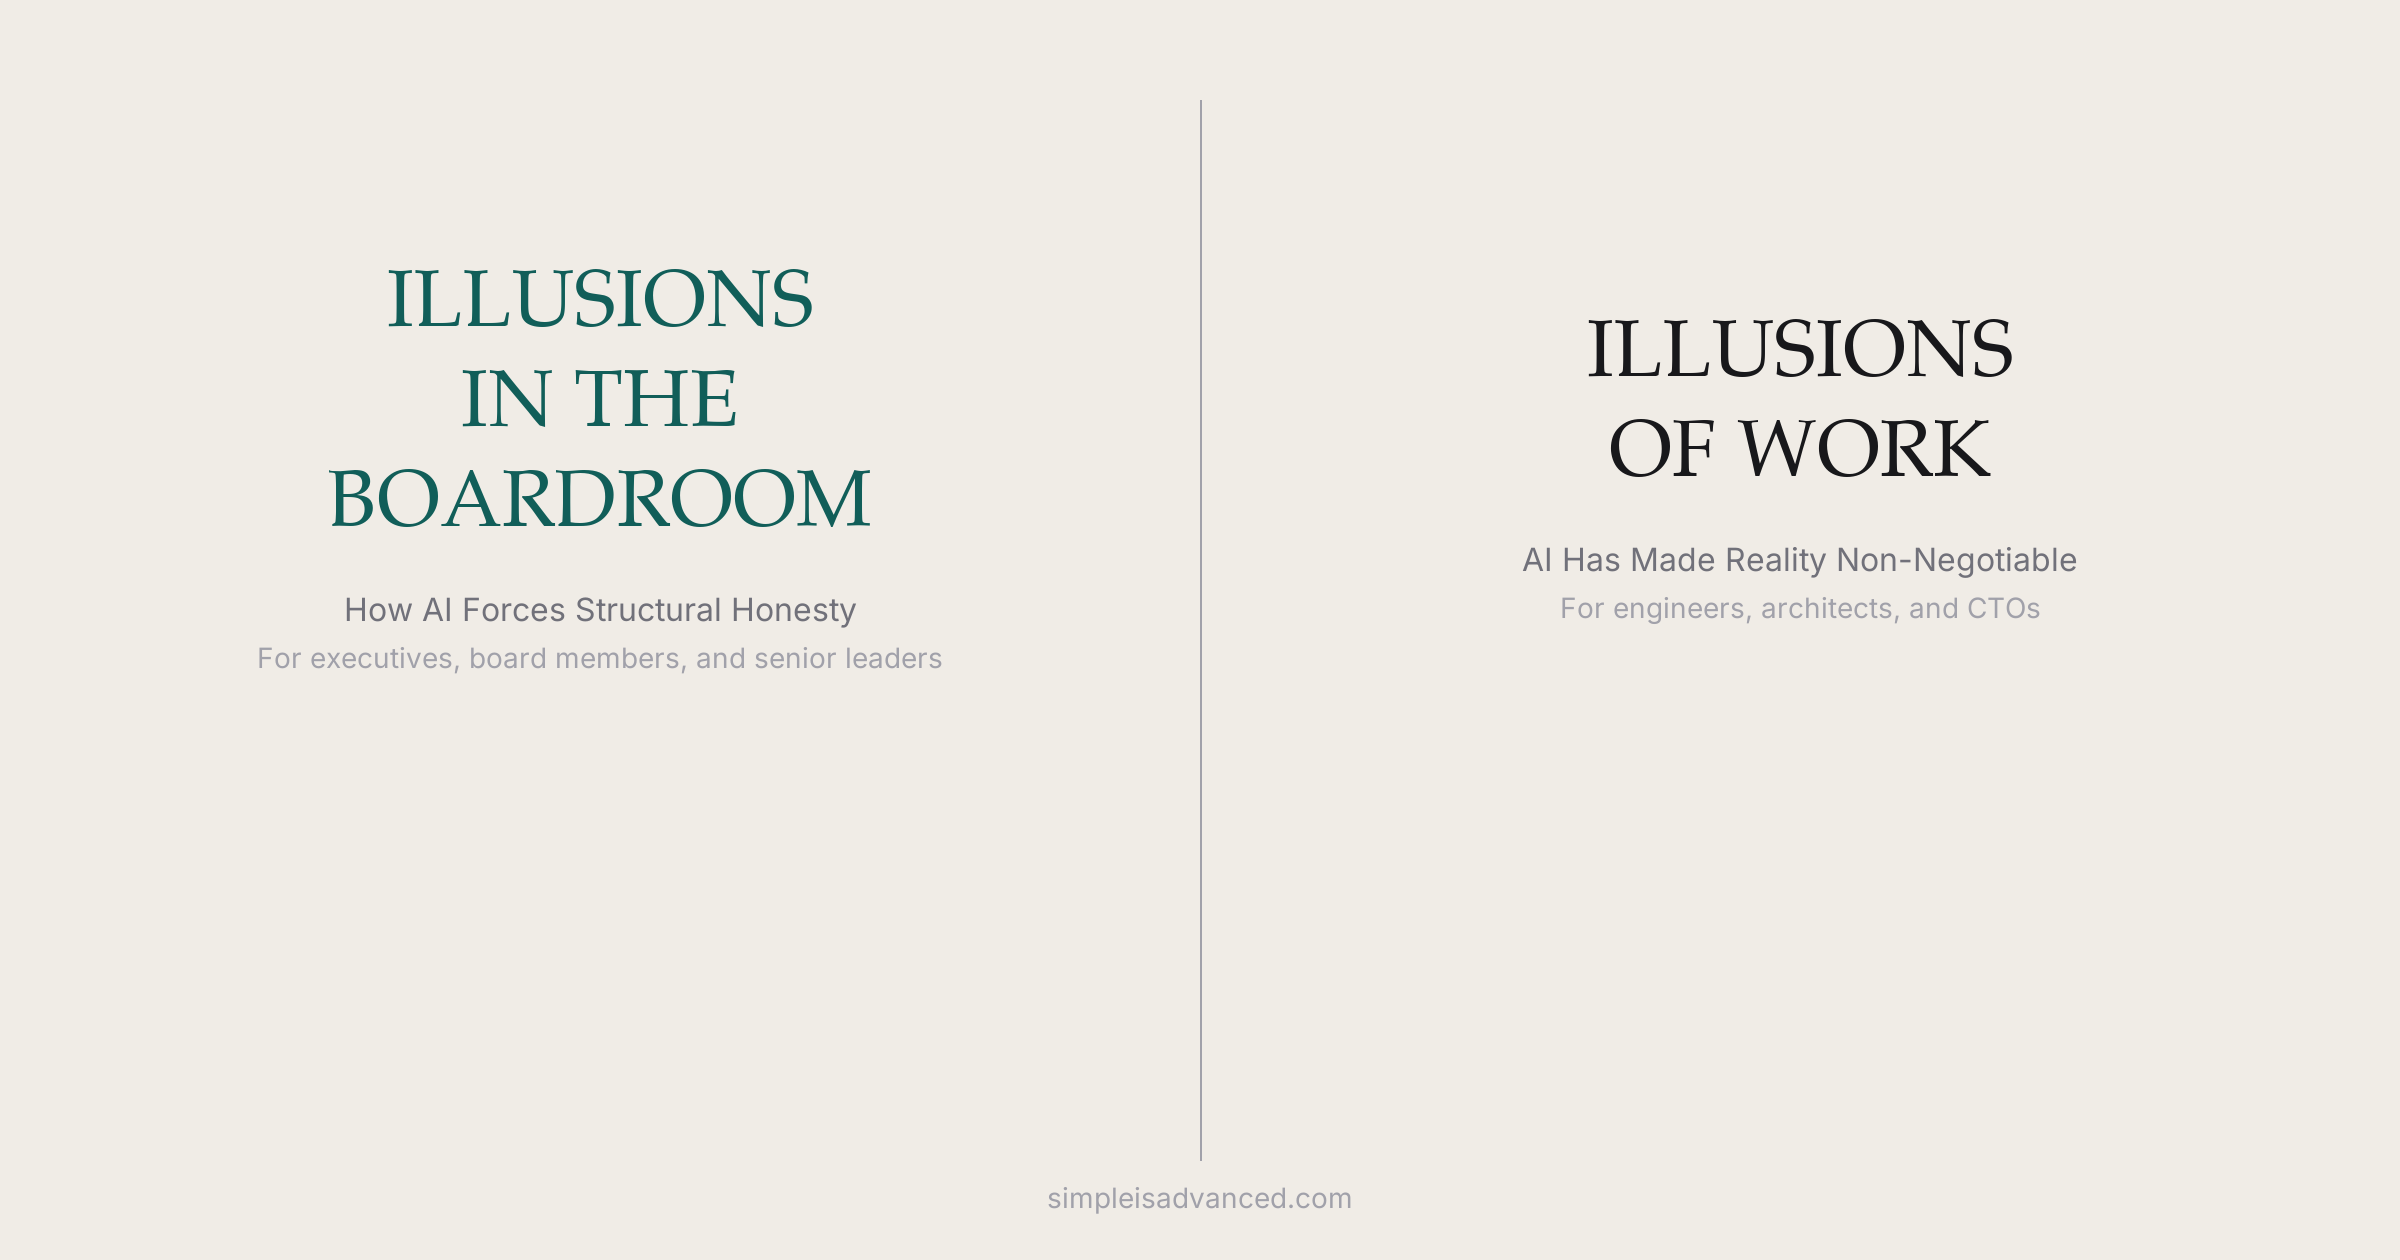
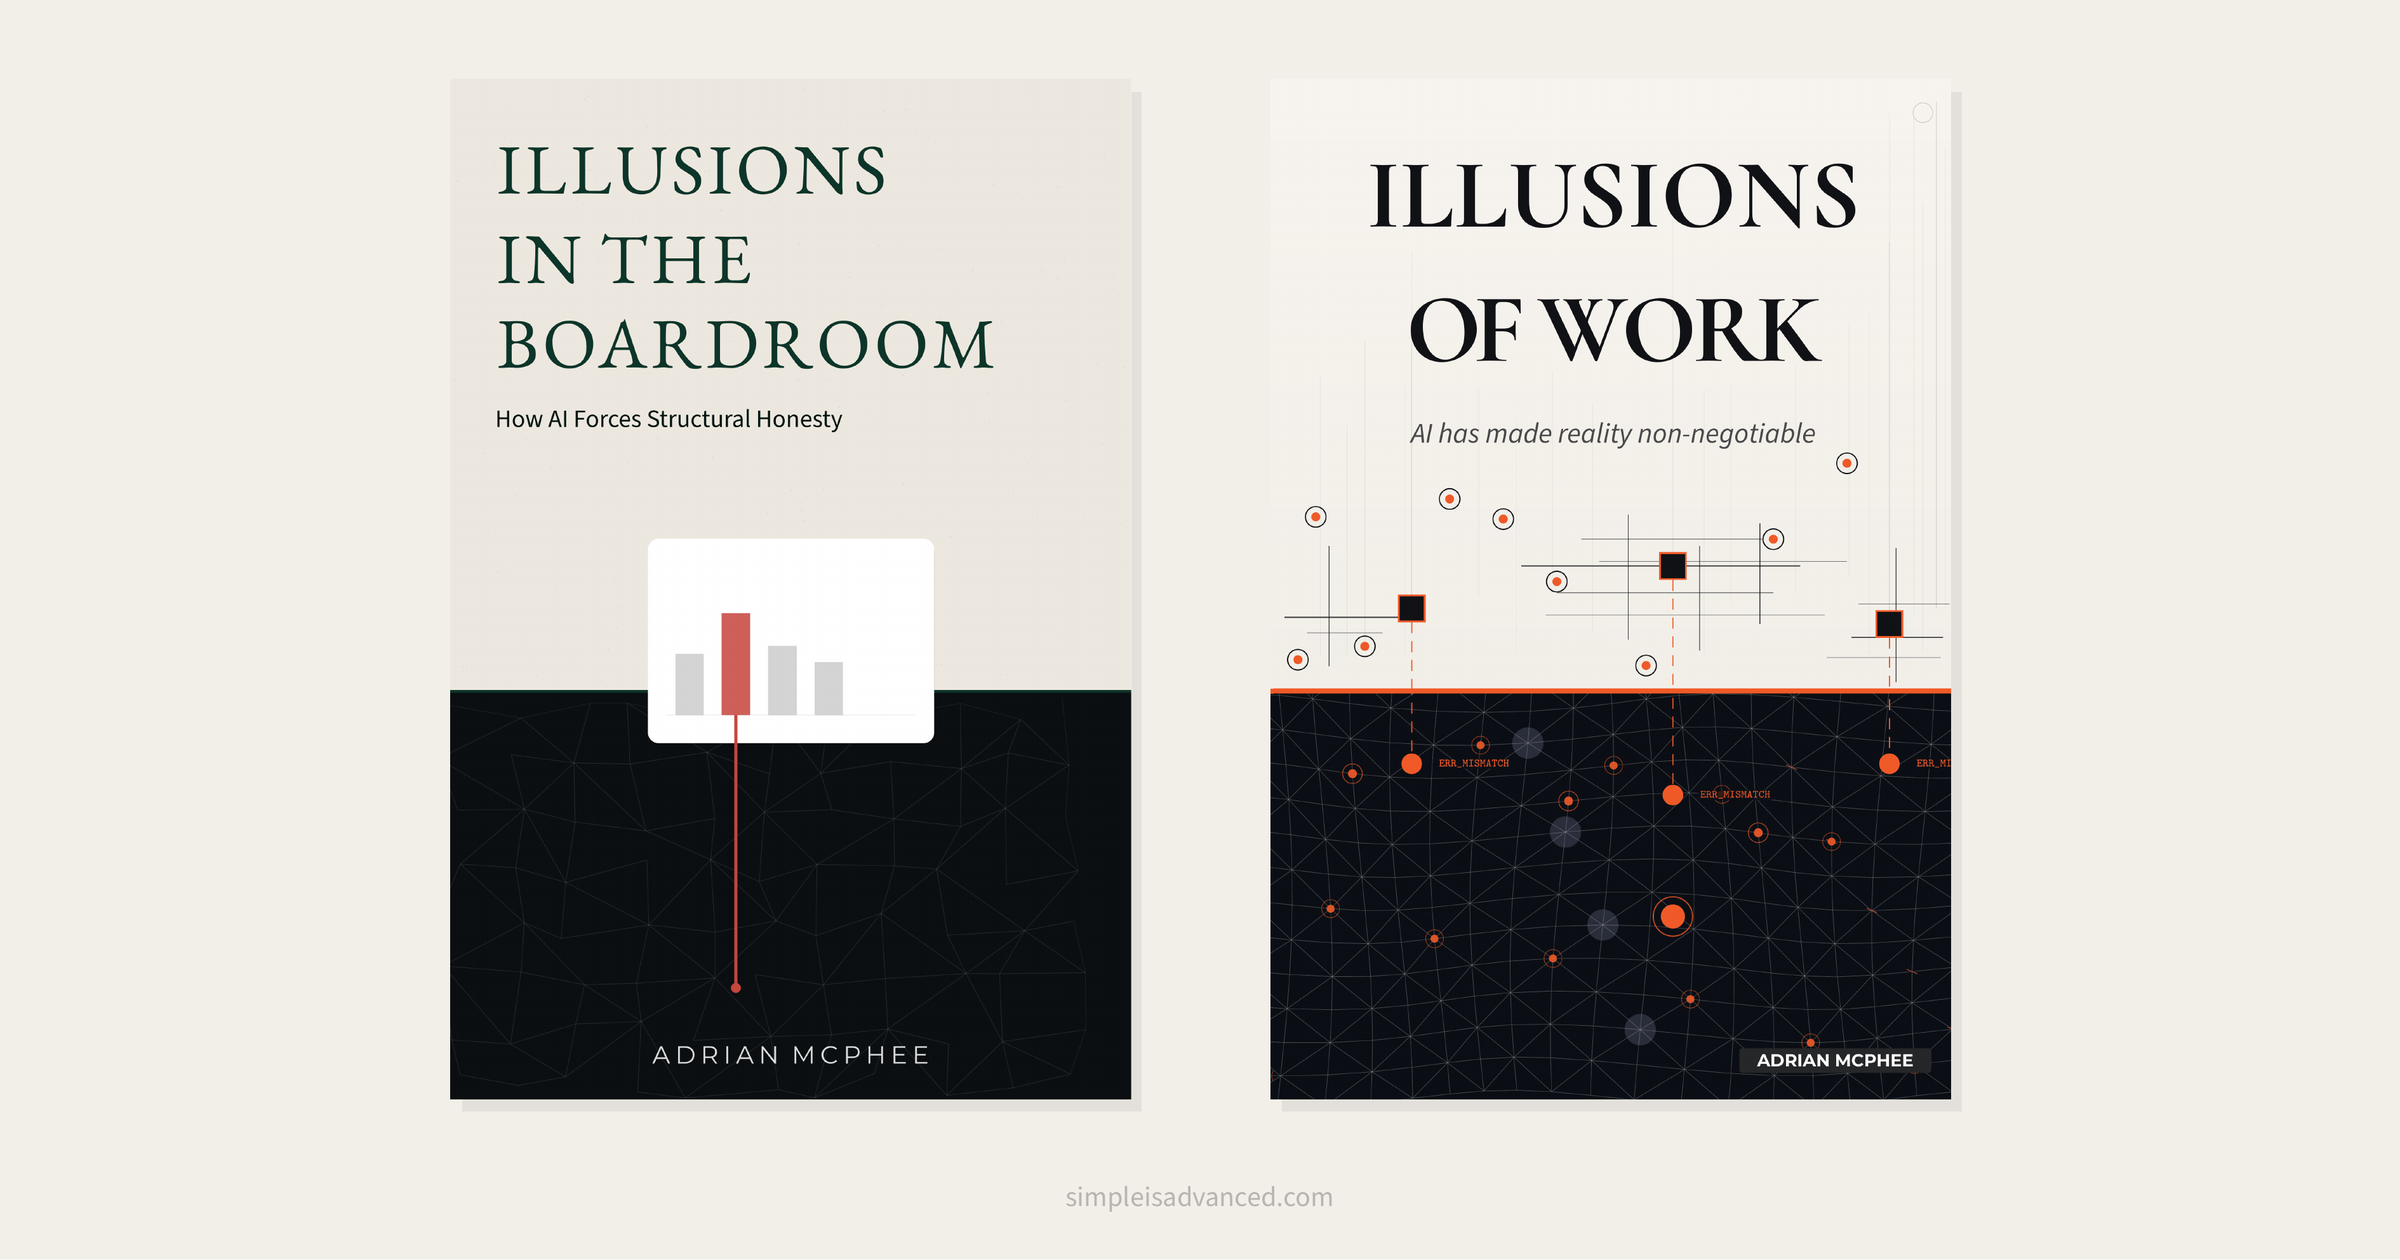
Replace text-only OG image with actual book covers
TikZ composition places both front covers side by side on the shared
cream background. Build script: python3 site/scripts/build_og_image.py

diff --git a/scripts/build_og_image.py b/scripts/build_og_image.py
@@ -1,0 +1,73 @@
+"""Build site-level OG image from site/src/og-image.tex.
+
+Renders the TikZ composition of both book covers to a 2400x1260 PNG
+(Retina/HiDPI; meta tags declare 1200x630).
+
+Requires:
+  - pdflatex  (TeX Live or similar)
+  - pdftoppm  (poppler-utils)
+  - Pillow    (pip install Pillow)
+  - Both front-cover PNGs already built:
+      book1/marketing/front-cover.png
+      book2/marketing/front-cover.png
+
+Usage: python3 site/scripts/build_og_image.py   (from repo root)
+"""
+
+import subprocess
+import tempfile
+from pathlib import Path
+
+from PIL import Image
+
+REPO_ROOT = Path(__file__).resolve().parent.parent.parent
+TEX_SRC = REPO_ROOT / "site" / "src" / "og-image.tex"
+OG_OUT = REPO_ROOT / "site" / "og-image.png"
+
+# Final dimensions: 2x for Retina (meta tags declare 1200x630)
+OG_W, OG_H = 2400, 1260
+
+RENDER_DPI = 400
+
+
+def main():
+    # Verify cover PNGs exist
+    for book in ("book1", "book2"):
+        cover = REPO_ROOT / book / "marketing" / "front-cover.png"
+        if not cover.exists():
+            raise FileNotFoundError(
+                f"Missing {cover}\n"
+                f"Run: cd {book} && make cover-assets"
+            )
+
+    with tempfile.TemporaryDirectory() as tmp:
+        tmp = Path(tmp)
+
+        # 1. pdflatex → PDF (run from site/src/ so relative paths resolve)
+        subprocess.run(
+            ["pdflatex", "-interaction=nonstopmode",
+             f"-output-directory={tmp}", str(TEX_SRC)],
+            cwd=REPO_ROOT / "site" / "src",
+            capture_output=True, check=True,
+        )
+        pdf = tmp / "og-image.pdf"
+        print(f"PDF:         {pdf}")
+
+        # 2. pdftoppm → high-res PNG
+        stem = tmp / "og-render"
+        subprocess.run(
+            ["pdftoppm", "-png", "-r", str(RENDER_DPI), "-singlefile",
+             str(pdf), str(stem)],
+            capture_output=True, check=True,
+        )
+        raw = Image.open(f"{stem}.png")
+        print(f"Raw render:  {raw.size[0]}x{raw.size[1]}")
+
+        # 3. Resize to exact OG dimensions
+        final = raw.resize((OG_W, OG_H), Image.LANCZOS)
+        final.save(str(OG_OUT), "PNG", optimize=True)
+        print(f"OG image:    {OG_OUT}  ({OG_W}x{OG_H})")
+
+
+if __name__ == "__main__":
+    main()

diff --git a/src/og-image.tex b/src/og-image.tex
@@ -1,0 +1,55 @@
+% Site-level OG image: both book covers side by side.
+%
+% Uses the already-rendered front-cover PNGs from each book's
+% marketing/ directory.  Rebuild covers first if they've changed
+% (cd book1 && make cover-assets; cd book2 && make cover-assets).
+%
+% Build: python3 site/scripts/build_og_image.py  (from repo root)
+
+\documentclass[border=0pt]{standalone}
+\usepackage[T1]{fontenc}
+\usepackage{tikz}
+\usepackage{graphicx}
+\usepackage[default]{sourcesanspro}
+
+% Shared palette
+\definecolor{paper}{HTML}{F2EFE9}
+\definecolor{muted}{HTML}{B8B5B0}
+
+\begin{document}
+\begin{tikzpicture}
+    % Canvas: 24cm x 12.6cm  (1200:630 = 40:21 aspect ratio)
+    \useasboundingbox (0,0) rectangle (24, 12.6);
+    \fill[paper] (0,0) rectangle (24, 12.6);
+
+    % --- Cover layout ---
+    \pgfmathsetmacro{\coverH}{10.2}               % cover height (cm)
+    \pgfmathsetmacro{\coverW}{\coverH * 2 / 3}    % 6:9 aspect ratio
+    \pgfmathsetmacro{\gap}{1.4}                    % gap between covers
+    \pgfmathsetmacro{\totalW}{2*\coverW + \gap}
+    \pgfmathsetmacro{\startX}{(24 - \totalW) / 2}
+    \pgfmathsetmacro{\coverY}{1.6}                 % bottom of covers
+
+    % --- Drop shadows ---
+    \fill[black, opacity=0.06]
+        ({\startX+0.12}, {\coverY-0.12})
+        rectangle +({\coverW}, {\coverH});
+    \fill[black, opacity=0.06]
+        ({\startX+\coverW+\gap+0.12}, {\coverY-0.12})
+        rectangle +({\coverW}, {\coverH});
+
+    % --- Boardroom cover (left) ---
+    \node[inner sep=0, anchor=south west] at ({\startX}, {\coverY}) {
+        \includegraphics[height=\coverH cm]{../../book2/marketing/front-cover.png}
+    };
+
+    % --- Work cover (right) ---
+    \node[inner sep=0, anchor=south west] at ({\startX+\coverW+\gap}, {\coverY}) {
+        \includegraphics[height=\coverH cm]{../../book1/marketing/front-cover.png}
+    };
+
+    % --- URL ---
+    \node[muted, font=\sffamily\footnotesize] at (12, 0.6)
+        {simpleisadvanced.com};
+\end{tikzpicture}
+\end{document}
